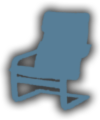
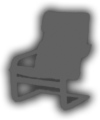
trying grayscale intro page

diff --git a/static/intro.css b/static/intro.css
@@ -34,7 +34,7 @@ td { vertical-align: center; text-align: center; }
 	height: 400px;
 	border-radius: 200px;
 	-moz-border-radius: 200px;
-	background: url(tile_test4.png);
+	background: url(tile_test5.png);
 	box-shadow: 2px 2px 15px 2px rgba(0,0,0,0.5) inset, -4px -4px 10px 2px rgba(255,255,255,0.2);
 	-moz-box-shadow: 2px 2px 15px 2px rgba(0,0,0,0.5) inset, -4px -4px 10px 2px rgba(255,255,255,0.2);
 	-webkit-transition-property: box-shadow, -moz-boz-shadow; -webkit-transition-duration: 0.2s, 0.2s; -webkit-transition-timing-function: linear, linear;
@@ -60,7 +60,7 @@ td { vertical-align: center; text-align: center; }
 #nav a .icon img { position: absolute; top: 0; left: 0; }
 #nav a .icon .hover { display: none; }
 
-#work, #play, #pretend { color: #577e97; float: left; margin-right: 10px; line-height: 10px; display: block; width: 100px; text-aign: center; text-shadow: #000 0 0 15px; font-weight: bold; opacity: 0.5;
+#work, #play, #pretend { /*color: #577e97;*/ color: #ccc; float: left; margin-right: 10px; line-height: 10px; display: block; width: 100px; text-aign: center; text-shadow: #000 0 0 15px; font-weight: bold; opacity: 0.5;
 -webkit-transition-property: text-shadow, color, opacity; -webkit-transition-duration: 0.2s, 0.2s; -webkit-transition-timing-function: linear, linear;
  }
 #work.hover, #play.hover, #pretend.hover { color: #fff; opacity: 1; }
